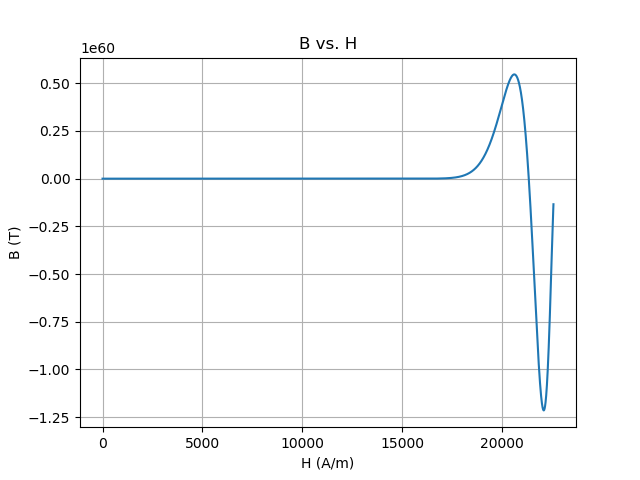
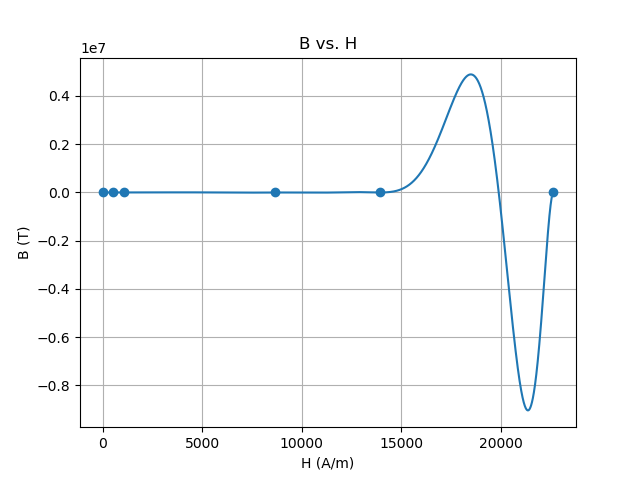
finished netwon raphson

diff --git a/a3/main.py b/a3/main.py
@@ -1,5 +1,6 @@
 from polynomial import Polynomial, LagrangePolynomial
-from interpolation import lagrange_full_domain, cubit_hermite
+from interpolation import lagrange_full_domain, cubic_hermite, piecewise_linear_interpolate
+from nonlinear import calc_newton_raphson
 import matplotlib.pyplot as plt
 import csv, os
 
@@ -25,21 +26,21 @@ def read_BH_file(filename):
 def calc_slope(X, Y, target):
     slope = []
 
-    result = (Y[1] - Y[0]) / (X[1] - X[0])
-    slope.append(result)
-    for i in range(1, len(target) - 1):
+    i = 0
+    while i < len(target) - 1:
         j = Y.index(target[i])
-        result = (Y[j + 1] - Y[j - 1]) / (X[j + 1] - X[j - 1])
+        result = (Y[j + 1] - Y[j]) / (X[j + 1] - X[j])
+        i += 1
 
         slope.append(result)
 
-    result = (Y[i + 1] - Y[i]) / (X[i + 1] - X[i])
+    result = (Y[j] - Y[j - 1]) / (X[j] - X[j - 1])
     slope.append(result)
 
     return slope
 
 
-def curve_plot(poly, filename, up):
+def curve_plot(poly, filename, up, data_x, data_y):
     b_list = []
     h_list = []
 
@@ -50,6 +51,8 @@ def curve_plot(poly, filename, up):
         h += 0.5
 
     plt.plot(h_list, b_list)
+    for i in range(len(data_x)):
+        plt.plot(data_x[i], data_y[i], 'oC0')
 
     plt.xlabel('H (A/m)')
     plt.ylabel('B (T)')
@@ -58,7 +61,34 @@ def curve_plot(poly, filename, up):
 
     plt.savefig(filename)
     plt.close()
-    print("Plot of the polynomial has been stored to " + os.getcwd() + filename)
+    print("Plot of the polynomial has been stored to " + os.getcwd() + "/" + filename)
+
+
+def plot_piecewise(filename, poly_list, data_x, data_y):
+    b_list = []
+    h_list = []
+
+    for i in range(len(poly_list)):
+        temp_poly = poly_list[i]
+        h = data_x[i]
+        while h < data_x[i + 1]:
+            b = temp_poly.calculate(h)
+            h_list.append(h)
+            b_list.append(b)
+            h += 0.01
+
+    plt.plot(h_list, b_list)
+    for i in range(len(data_x)):
+        plt.plot(data_x[i], data_y[i], 'oC0')
+
+    plt.ylabel('H (A/m)')
+    plt.xlabel('B (T)')
+    plt.title('H v.s. B')
+    plt.grid(True)
+
+    plt.savefig(filename)
+    plt.close()
+    print("Plot of the polynomial has been stored to " + os.getcwd() + "/" + filename)
 
 if __name__ == "__main__":
     os.chdir('data')
@@ -69,7 +99,7 @@ if __name__ == "__main__":
     print("This is the output log of assignment 3.")
 
     # ======= Part a =======
-    print("Running (a) of Problem 1...")
+    print(" ====== Q1, Part a ======")
     H = [0.0, 14.7, 36.5, 71.7, 121.4, 197.4]
     B = [0.0, 0.2, 0.4, 0.6, 0.8, 1.0]
     poly = lagrange_full_domain(H, B)
@@ -78,10 +108,10 @@ if __name__ == "__main__":
     poly.toString()
     filename = "B_H_first_six.png"
 
-    curve_plot(poly, filename, 200)
+    curve_plot(poly, filename, 200, H, B)
 
     # ====== Part b ======
-    print("Running (b) of Problem 1...")
+    print(" ====== Q1, Part b =======")
     H = [0.0, 540.6, 1062.8, 8687.4, 13924.3, 22650.2]
     B = [0.0, 1.3, 1.4, 1.7, 1.8, 1.9]
     poly = lagrange_full_domain(H, B)
@@ -89,27 +119,25 @@ if __name__ == "__main__":
     print("The interpolated polynomial of the second set of six points is:")
     poly.toString()
     filename = "B_H_second_six.png"
-    curve_plot(poly, filename, 22651)
+    curve_plot(poly, filename, 22651, H, B)
 
     # ====== Part c ======
-    print("Running Part (c) of Problem 1...")
-    print("The slope at the data points are calculated as follows:")
-
-    B, H = read_BH_file("M19_BH.csv")
-    for i in H:
-        print(i, end=", ")
-
-    print()
+    print(" ====== Q1, Part c ======")
     slopes = calc_slope(H, B, B)
-    for i in slopes:
-        print(i, end=", ")
-
     filename = "Cubic Hermite.png"
-    poly = cubit_hermite(H, B, slopes)
+    poly = cubic_hermite(H, B, slopes)
     print("The interpolated polynomial is:")
     poly.toString()
+    curve_plot(poly, filename, 22561, H, B)
 
-    print("test point" + str(540.6) + "=" + str(poly.calculate(540.6)))
-    print("test point" + str(1062.8) + "=" + str(poly.calculate(1062.8)))
-    print("test point" + str(8687.4) + "=" + str(poly.calculate(8687.4)))
-    curve_plot(poly, filename, 22561)
+    # ====== Part e ======
+    print(" ====== Q1, Part e ======")
+    # Find the piecewise interpolated polynomial
+    filename = "Piecewise Polynomial"
+    B, H = read_BH_file('M19_BH.csv')
+    piece_poly_list = piecewise_linear_interpolate(B, H)
+    print("Printing the piecewise polynomials...")
+    plot_piecewise(filename, piece_poly_list, B, H)
+
+    # Calculate Newton Raphson
+    calc_newton_raphson(piece_poly_list, B, H)

diff --git a/a3/nonlinear.py b/a3/nonlinear.py
@@ -1,0 +1,53 @@
+from polynomial import Polynomial
+
+TOLERANCE = 1e-6
+
+
+def calc_newton_raphson(equation, data_x, data_y):
+    """
+    calculates the newton raphson
+    :param equation: either a polynomial or a list of piecewise linear polynomials
+    :param data_x: the list of data on the x axis
+    :return: number of iterations and the final result
+    """
+    if isinstance(equation, list):
+        """
+            This condition will be taken if equation is a list of linear polynomials.
+        """
+        area = 1e-4
+        flux_list = []
+        coefficients = [3.9790e7, 0.3, -8000]
+        first_iter = True
+
+        # Calculate f(0)
+        k = 0
+        flux = 0
+        convergent = False
+        fk = -8000
+        prev_fk = -8000
+
+        while not convergent:
+            if fk / prev_fk < TOLERANCE:
+                break
+            prev_fk = fk
+            # Find the piecewise polynomial segment of the current flux
+            for i in range(1, len(data_x)):
+                if data_x[i - 1] <= (flux / area) < data_x[i]:
+                    temp_poly = equation[i - 1]
+                    start_H = data_y[i - 1]
+                    break
+                else:
+                    temp_poly = equation[len(equation) - 1]
+                    start_H = data_y[len(equation) - 1]
+
+            # The polynomial segment is located at location i - 1
+            # Calculating stuff at k
+            slope = temp_poly[1]
+            H = slope * flux / area + start_H
+            fk = coefficients[0] * flux + coefficients[1] * H + coefficients[2]
+            fk_prime = coefficients[0] + coefficients[1] * temp_poly[1] / area
+
+            k += 1
+            flux = flux - fk / fk_prime
+
+        return k, flux_list

diff --git a/a3/interpolation.py b/a3/interpolation.py
@@ -1,6 +1,8 @@
 from polynomial import Polynomial, LagrangePolynomial
 
 
+TOLERANCE = 1e-6
+
 def lagrange_full_domain(xr, y, points=None):
     """
     This is the method for the lagrange full domain interpolation.
@@ -29,7 +31,7 @@ def lagrange_full_domain(xr, y, points=None):
     return result_polynomial
 
 
-def cubit_hermite(xr, y, slopes):
+def cubic_hermite(xr, y, slopes):
     result = Polynomial([0])
 
     for j in range(len(xr)):
@@ -56,3 +58,15 @@ def cubit_hermite(xr, y, slopes):
         result += uj * aj_poly + vj * bj_poly
 
     return result
+
+def piecewise_linear_interpolate(xr, y):
+    polynomials = []
+
+    for i in range(1, len(xr)):
+        a = (y[i] - y[i - 1]) / (xr[i] - xr[i - 1])
+        b = y[i] - a * xr[i]
+
+        temp_poly = Polynomial([b, a])
+        polynomials.append(temp_poly)
+
+    return polynomials
